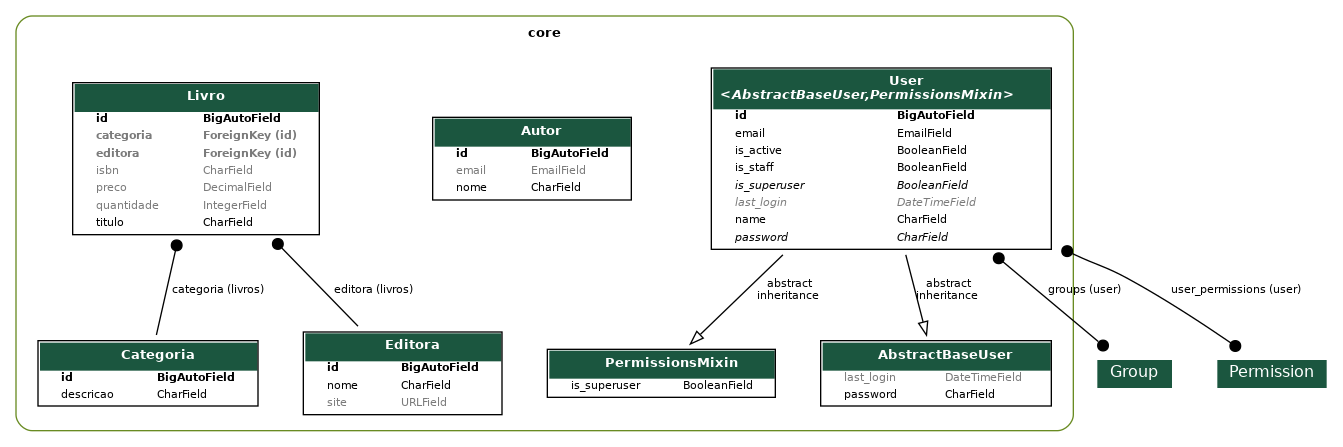
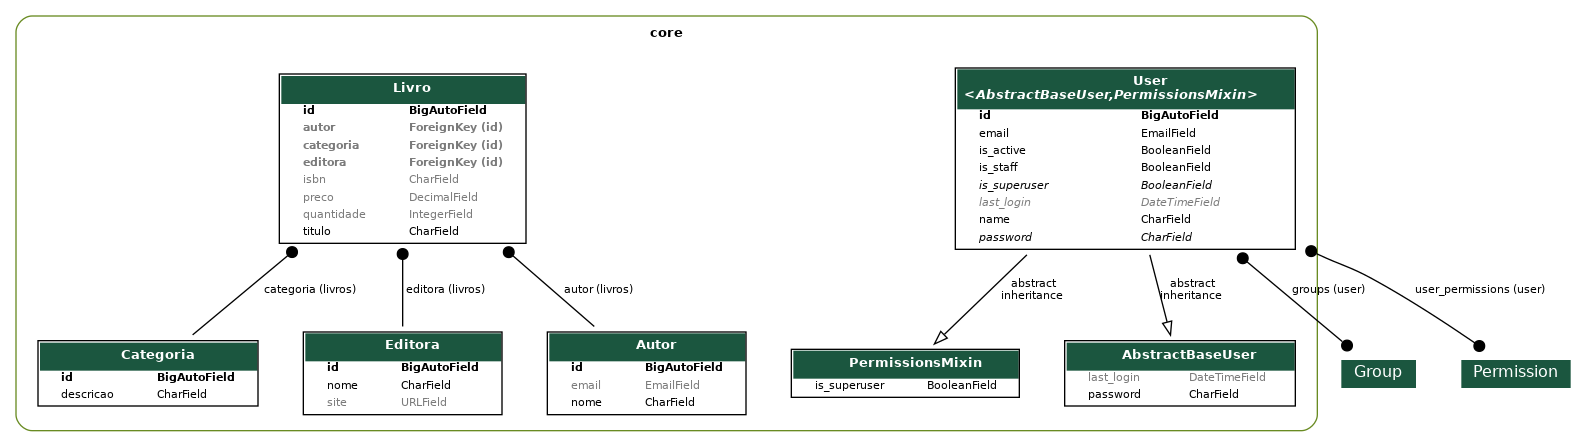
Livro com apenas um autor

diff --git a/core/models/livro.py b/core/models/livro.py
@@ -1,5 +1,6 @@
 from django.db import models
 
+from .autor import Autor
 from .categoria import Categoria
 from .editora import Editora
 
@@ -7,9 +8,10 @@ class Livro(models.Model):
     titulo = models.CharField(max_length=255)
     isbn = models.CharField(max_length=32, null=True, blank=True)
     quantidade = models.IntegerField(default=0,  null=True, blank=True)
-    preco = models.DecimalField(max_digits=7, decimal_places=2, default=0, null=True, blank=True)
+    preco = models.DecimalField(max_digits=7, decimal_places=2, default=0, null=True, blank=True, verbose_name="Preço")
     categoria = models.ForeignKey(Categoria, on_delete=models.PROTECT, related_name="livros", blank=True, null=True)
     editora = models.ForeignKey(Editora, on_delete=models.PROTECT, related_name="livros", blank=True, null=True)
+    autor = models.ForeignKey(Autor, on_delete=models.PROTECT, related_name="livros", blank=True, null=True)
 
     def __str__(self):
         return f"({self.id}) {self.titulo} ({self.quantidade})"

diff --git a/core/migrations/0008_livro_autor.py b/core/migrations/0008_livro_autor.py
@@ -1,0 +1,25 @@
+# Generated by Django 5.0.2 on 2024-08-12 17:05
+
+import django.db.models.deletion
+from django.db import migrations, models
+
+
+class Migration(migrations.Migration):
+
+    dependencies = [
+        ("core", "0007_livro_editora_alter_livro_categoria"),
+    ]
+
+    operations = [
+        migrations.AddField(
+            model_name="livro",
+            name="autor",
+            field=models.ForeignKey(
+                blank=True,
+                null=True,
+                on_delete=django.db.models.deletion.PROTECT,
+                related_name="livros",
+                to="core.autor",
+            ),
+        ),
+    ]

diff --git a/core/migrations/0009_alter_livro_preco.py b/core/migrations/0009_alter_livro_preco.py
@@ -1,0 +1,20 @@
+# Generated by Django 5.0.2 on 2024-08-12 17:11
+
+from django.db import migrations, models
+
+
+class Migration(migrations.Migration):
+
+    dependencies = [
+        ("core", "0008_livro_autor"),
+    ]
+
+    operations = [
+        migrations.AlterField(
+            model_name="livro",
+            name="preco",
+            field=models.DecimalField(
+                blank=True, decimal_places=2, default=0, max_digits=7, null=True, verbose_name="Preço"
+            ),
+        ),
+    ]

diff --git a/core/models/categoria.py b/core/models/categoria.py
@@ -5,4 +5,4 @@ class Categoria(models.Model):
     descricao = models.CharField(max_length=100)
 
     def __str__(self):
-        return self.descricao
+        return f"{self.descricao} ({self.id})"
